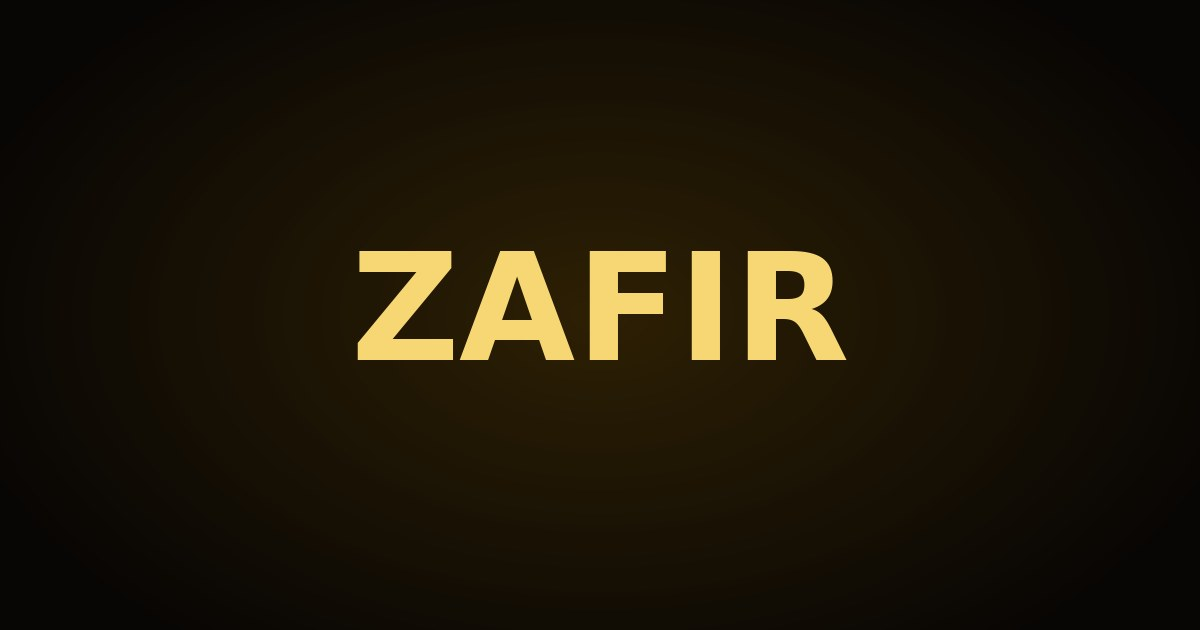
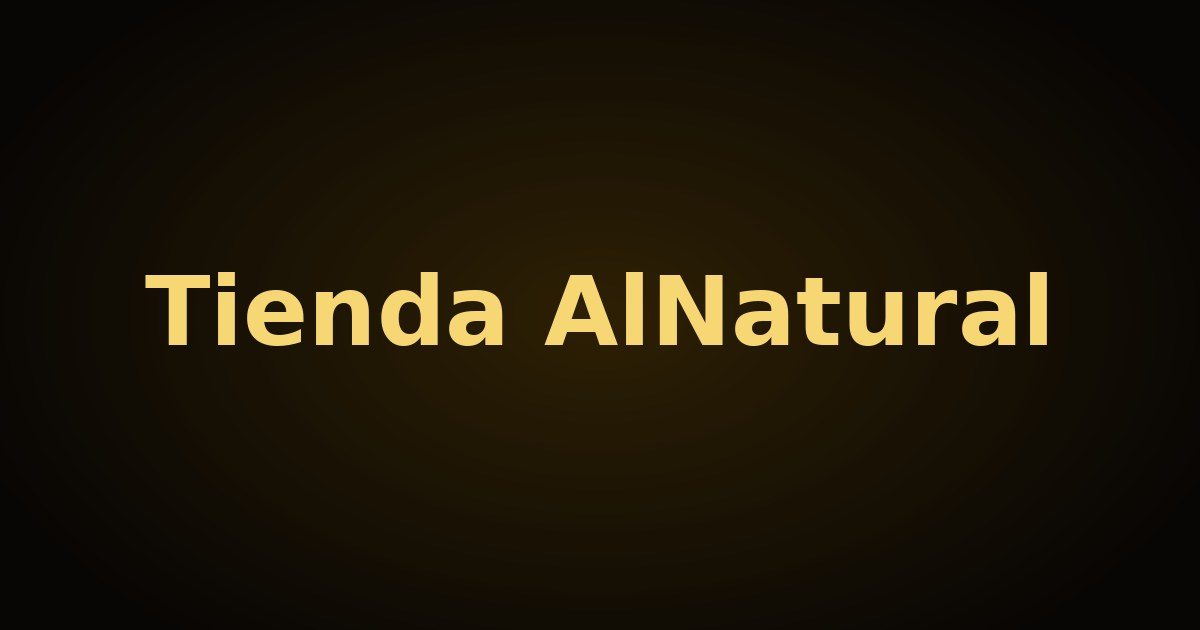
ZAFIR: título y vista previa 'Tienda AlNatural'; /ZAFIRO apunta a la raíz del sitio aparte
Claude-Session: https://claude.ai/code/session_015yRKJs9pfA4eNhXNfx7dBz

Changed region(s): [[0.1233, 0.3921, 0.8942, 0.573]]

diff --git a/zafir/index.html b/zafir/index.html
@@ -15,10 +15,11 @@ history.replaceState(history.state,'',u.pathname+'?'+q.toString()+u.hash);
 <meta name="viewport" content="width=device-width, initial-scale=1, viewport-fit=cover">
 <meta name="robots" content="noindex">
 <meta name="theme-color" content="#0A0A0A">
-<title>ZAFIR | Información para hombres</title>
-<meta name="description" content="Mira el video completo. Pago contra entrega en Colombia.">
+<title>Tienda AlNatural</title>
+<meta name="description" content="Pago contra entrega y envío discreto a toda Colombia.">
 <meta property="og:type" content="website">
-<meta property="og:title" content="ZAFIR | Información para hombres">
+<meta property="og:title" content="Tienda AlNatural">
+<meta property="og:description" content="Pago contra entrega y envío discreto a toda Colombia.">
 <meta property="og:image" content="/og.jpg">
 <link rel="preconnect" href="https://fonts.googleapis.com"><link rel="preconnect" href="https://fonts.gstatic.com" crossorigin>
 <link rel="preconnect" href="https://vz-c91527a7-3a2.b-cdn.net" crossorigin>

diff --git a/tools/zafir_build.py b/tools/zafir_build.py
@@ -507,10 +507,11 @@ PAGE = """<!doctype html>
 <meta name="viewport" content="width=device-width, initial-scale=1, viewport-fit=cover">
 <meta name="robots" content="noindex">
 <meta name="theme-color" content="#0A0A0A">
-<title>ZAFIR | Información para hombres</title>
-<meta name="description" content="Mira el video completo. Pago contra entrega en Colombia.">
+<title>Tienda AlNatural</title>
+<meta name="description" content="Pago contra entrega y envío discreto a toda Colombia.">
 <meta property="og:type" content="website">
-<meta property="og:title" content="ZAFIR | Información para hombres">
+<meta property="og:title" content="Tienda AlNatural">
+<meta property="og:description" content="Pago contra entrega y envío discreto a toda Colombia.">
 <meta property="og:image" content="/og.jpg">
 <!-- ZAFIR: página con VSL + formulario contraentrega. Generada por tools/zafir_build.py (no editar a mano). __ESTADO__ -->
 <link rel="preconnect" href="https://fonts.googleapis.com"><link rel="preconnect" href="https://fonts.gstatic.com" crossorigin>
@@ -627,15 +628,17 @@ try:
     fnt = ImageFont.truetype("/usr/share/fonts/truetype/dejavu/DejaVuSans-Bold.ttf", 150)
 except OSError:
     fnt = ImageFont.load_default()
-w = d.textlength("ZAFIR", font=fnt)
-d.text(((1200 - w) / 2, 220), "ZAFIR", font=fnt, fill=(247, 215, 116))
+TXT = "Tienda AlNatural"   # cesar 25-nov: el título y la vista previa no dicen ZAFIR
+fnt = ImageFont.truetype("/usr/share/fonts/truetype/dejavu/DejaVuSans-Bold.ttf", 96)
+w = d.textlength(TXT, font=fnt)
+d.text(((1200 - w) / 2, 255), TXT, font=fnt, fill=(247, 215, 116))
 og.save(OUT / "og.jpg", quality=88)
 
 (OUT / "vercel.json").write_text(json.dumps({
     "framework": None, "buildCommand": "", "outputDirectory": ".", "cleanUrls": True,
     "rewrites": [
-        {"source": "/ZAFIRO", "destination": "/index.html"},
-        {"source": "/zafiro", "destination": "/index.html"},
+        {"source": "/ZAFIRO", "destination": "/"},
+        {"source": "/zafiro", "destination": "/"},
         {"source": "/api/c", "destination": "https://mqwscbpdozrdiqxofmod.supabase.co/functions/v1/checkout-native"},
         {"source": "/api/f", "destination": "https://mqwscbpdozrdiqxofmod.supabase.co/functions/v1/funnel-track"},
     ],
